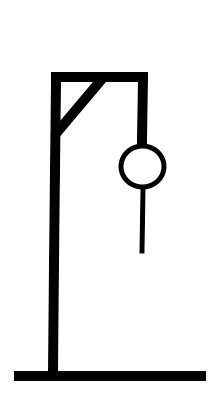
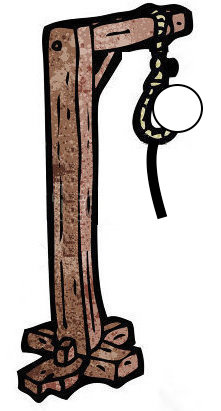
add all the functionalities

diff --git a/main.js b/main.js
@@ -1,9 +1,10 @@
 $(document).ready(function() {
 
-  $('#lives').text( 3 );
+  $('#lives').text( 10 );
   $('#tries').text( 0 );
   $('#wrongGuess').text( 0 );
   $('#score').text(0 + '%');
+  $('#hangmanImg').attr('src', 'img/hangman-'+0+'.jpg');
 
   var clickOk = $('#clickOk')[0];  // sounds for buttons when is ok guessing
   var clickError = $('#clickError')[0];  //sounds for buttons when is error guessing
@@ -64,6 +65,10 @@ $(document).ready(function() {
 
         clickError.play();
 
+        // $('#hangmanImg').append('<img id="' + word[j] + '">');
+
+
+
       }
       tries++; // counting the tries of guessing
 
@@ -72,6 +77,7 @@ $(document).ready(function() {
         $('#wrongGuess').text( wrongGuess );
         $('#score').text( score + '%' );
         $('#lives').text( lives );
+        $('#hangmanImg').attr('src', 'img/hangman-'+wrongGuess+'.jpg');
 
       }
       updateScores();

diff --git a/index.html b/index.html
@@ -116,9 +116,8 @@
         </div><!--/. END col-md-4 top right -->
 
       <div class="hangmanBox">
-        <p>Hangman box</p>
-        <img src="" alt="">
-    </div><!--/. END hangmanBox right -->
+        <img id="hangmanImg" alt="">
+      </div><!--/. END hangmanBox right -->
 
     <div id="messageBox" class="message">
 
